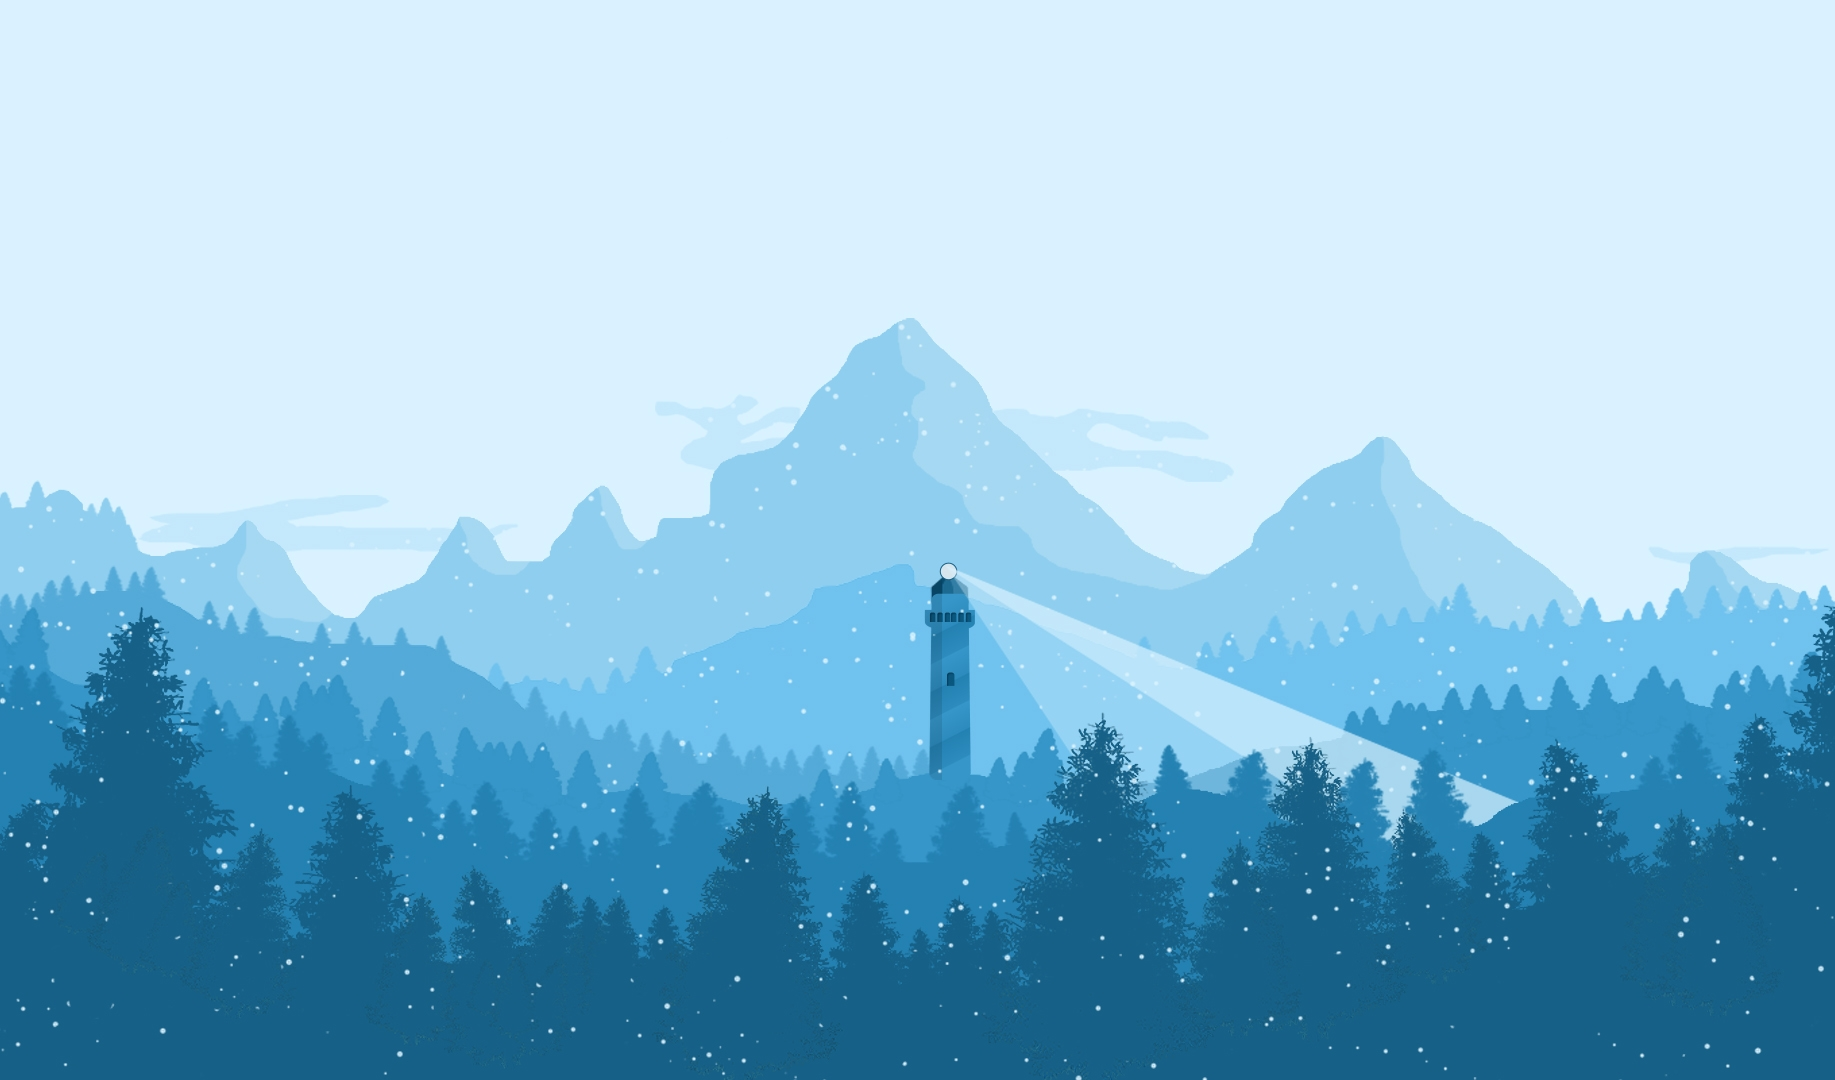
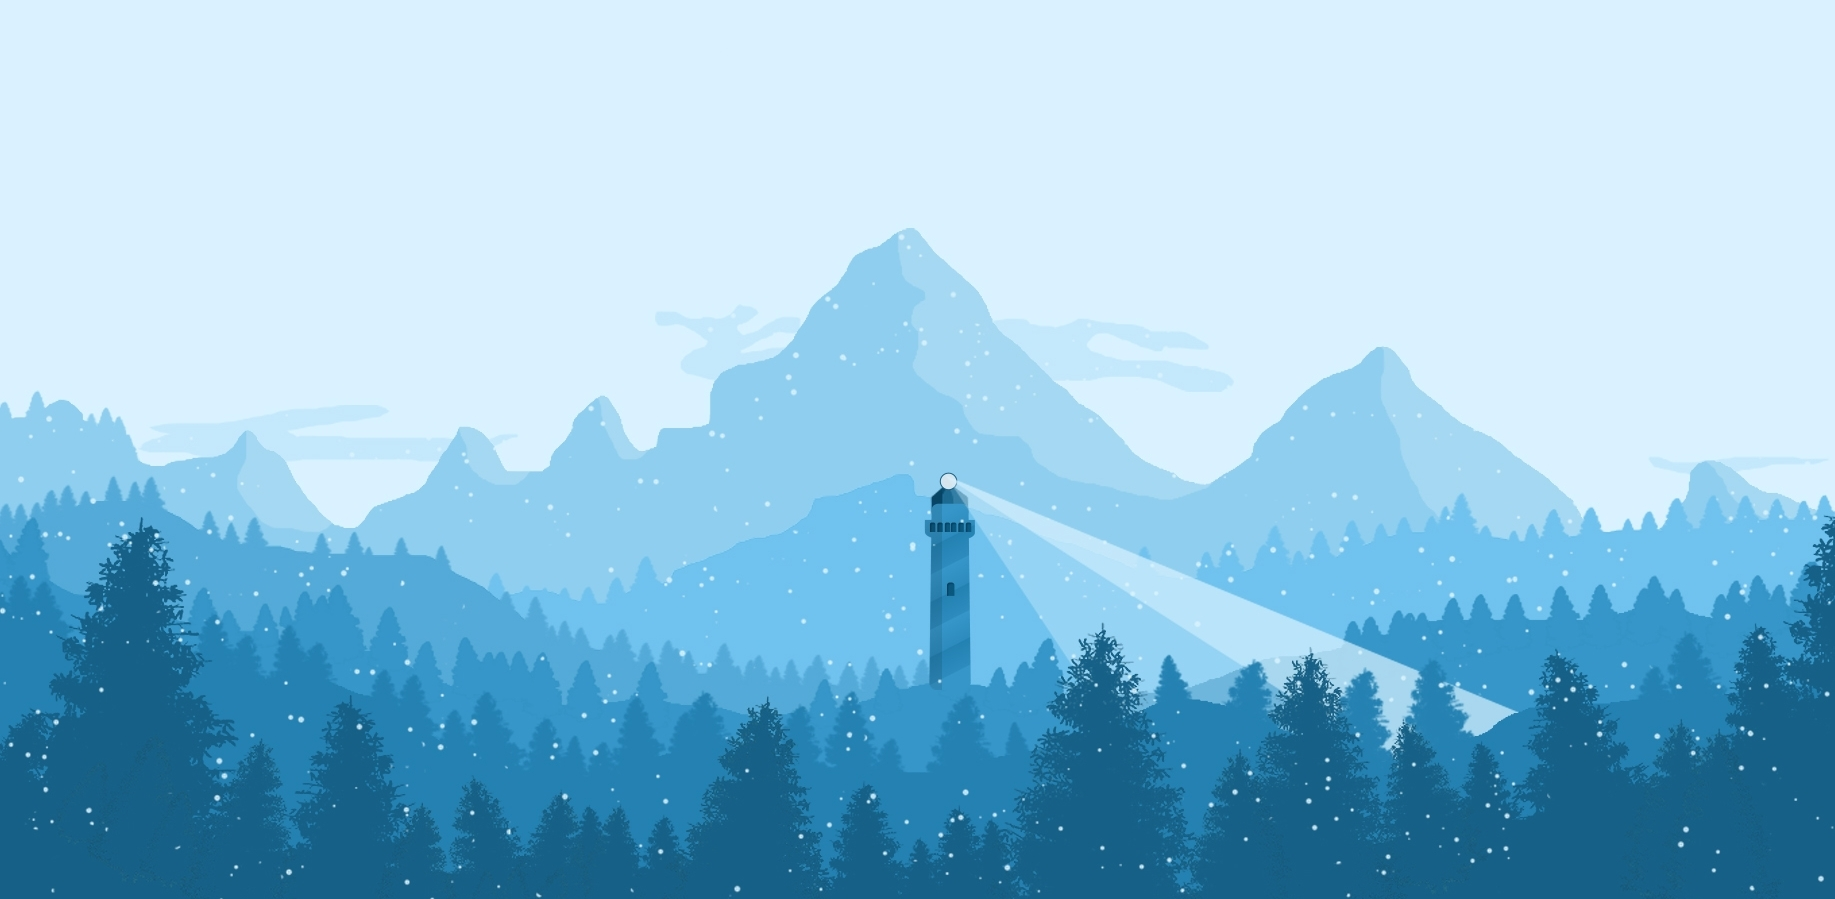
final push3

diff --git a/css/style.css b/css/style.css
@@ -13,7 +13,7 @@ text-align             : center;
 }
 
 #home-jumbotron{
-background-image       : url('../images/winter6.jpg');
+background-image       : url('../images/winter3.jpg');
 }
 
 #home-wethenorth:hover {
